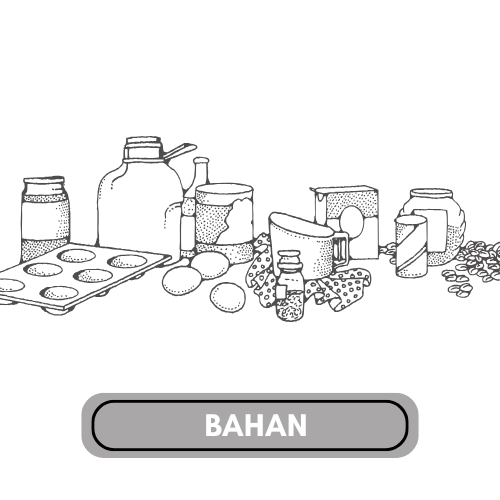
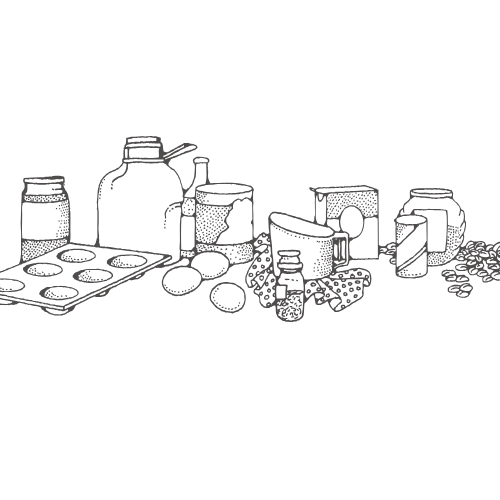
add

Changed region(s): [[0.15, 0.78, 0.84, 0.93]]

diff --git a/public/js/myjs.js b/public/js/myjs.js
@@ -67,7 +67,6 @@ inputIds.forEach(function (id) {
     }
 });
 
-
 //////////////////////////////////////////
 
 document
@@ -105,15 +104,13 @@ $(document).on("click", ".btn_editbarang", function (e) {
     $("#txtstok_awal").val(stok_awal);
     $("#txtsatuan_id").val(satuan_id);
 
-    if (image && image !== 'NULL') {
-        $("#previewGambar")
-            .show();
+    if (image && image !== "NULL") {
+        $("#previewGambar").show();
         $("#previewImage")
             .attr("src", "/" + image) // pastikan path benar, misal "upload/barang/xxx.jpg"
             .show();
     } else {
-        $("#previewGambar")
-            .hide();
+        $("#previewGambar").hide();
         $("#previewImage").hide();
     }
 
@@ -125,8 +122,6 @@ $(document).on("click", ".btn_editbarang", function (e) {
 $(document).on("click", "#barangModal2", function (e) {
     $("#barangModal2").modal("show");
 });
-
-
 
 //////////////////////////////////////////////
 
@@ -208,15 +203,13 @@ $(document).on("click", ".btn_editbahan", function (e) {
     $("#txtminimum").val(formattedMinimum);
     $("#txtsatuan_id").val(satuan_id);
 
-    if (image && image !== 'NULL') {
-        $("#previewGambar")
-            .show();
+    if (image && image !== "NULL") {
+        $("#previewGambar").show();
         $("#previewImage")
             .attr("src", "/" + image) // pastikan path benar, misal "upload/bahan/xxx.jpg"
             .show();
     } else {
-        $("#previewGambar")
-            .hide();
+        $("#previewGambar").hide();
         $("#previewImage").hide();
     }
 
@@ -247,15 +240,13 @@ $(document).on("click", ".btn_editbahan2", function (e) {
     $("#txtminimum2").val(formattedMinimum2);
     $("#txtsatuan_id2").val(satuan_id2);
 
-    if (image2 && image2 !== 'NULL') {
-        $("#previewGambar2")
-            .show();
+    if (image2 && image2 !== "NULL") {
+        $("#previewGambar2").show();
         $("#previewImage2")
             .attr("src", "/" + image2) // pastikan path benar, misal "upload/bahan/xxx.jpg"
             .show();
     } else {
-        $("#previewGambar2")
-            .hide();
+        $("#previewGambar2").hide();
         $("#previewImage2").hide();
     }
 
@@ -372,15 +363,13 @@ $(document).ready(function () {
         $("#editMenuName").val(name);
         $("#editMenuDescription").val(description);
 
-        if (image && image !== 'NULL') {
-            $("#previewGambar")
-                .show();
+        if (image && image !== "NULL") {
+            $("#previewGambar").show();
             $("#previewImage")
                 .attr("src", "/" + image) // pastikan path benar, misal "upload/bahan/xxx.jpg"
                 .show();
         } else {
-            $("#previewGambar")
-                .hide();
+            $("#previewGambar").hide();
             $("#previewImage").hide();
         }
 
@@ -433,9 +422,6 @@ $(document).ready(function () {
 
         refreshSatuan($("#editBahanContainer"));
     });
-
-    
-    
 });
 
 ////////////////////////////////////////////////////////

diff --git a/public/js/myselect2.js b/public/js/myselect2.js
@@ -37,6 +37,11 @@ $("#editEditModal").on("shown.bs.modal", function () {
     initSelect2("#txtsatuan_id", "#editBahanModal .modal-content");
 });
 
+// Modal Edit Bahan (Kitchen)
+$("#editBarangModal2").on("shown.bs.modal", function () {
+    initSelect2("#txtsatuan_id2", "#editBarangModal2 .modal-content");
+});
+
 // Modal Tambah Barang (Bar)
 $("#barangModal1").on("shown.bs.modal", function () {
     initSelect2("#satuan_id_bar", "#barangModal1 .modal-content");
@@ -46,3 +51,4 @@ $("#barangModal1").on("shown.bs.modal", function () {
 $("#barangModal2").on("shown.bs.modal", function () {
     initSelect2("#satuan_id_kitchen", "#barangModal2 .modal-content");
 });
+

diff --git a/resources/views/errors/500.blade.php b/resources/views/errors/500.blade.php
@@ -1,0 +1,55 @@
+<!DOCTYPE html>
+<html lang="en">
+<head>
+    <meta charset="UTF-8">
+    <meta name="viewport" content="width=device-width, initial-scale=1.0">
+    <title>Server Error</title>
+    <style>
+        body {
+            font-family: Arial, sans-serif;
+            background-color: #f8f8f8;
+            color: #333;
+            text-align: center;
+            padding: 50px;
+        }
+        .container {
+            max-width: 600px;
+            margin: 0 auto;
+            background-color: #fff;
+            padding: 30px;
+            border-radius: 8px;
+            box-shadow: 0 2px 4px rgba(0, 0, 0, 0.1);
+        }
+        h1 {
+            font-size: 72px;
+            margin-bottom: 10px;
+            color: #e74c3c; /* Red color for error */
+        }
+        p {
+            font-size: 18px;
+            margin-bottom: 20px;
+        }
+        a {
+            color: #3498db;
+            text-decoration: none;
+        }
+        a:hover {
+            text-decoration: underline;
+        }
+    </style>
+</head>
+<body>
+    <div class="container">
+        <h1>500</h1>
+        <p>Internal Server Error</p>
+        <p>
+            Oops! Something went wrong on our server. We're working to fix it.
+            Please try again in a few moments.
+        </p>
+        <p>
+            If the problem persists, please <a href="mailto:rendi45hp@gmail.com">contact support</a>.
+        </p>
+        <p>You can go back to the <a href="{{ url('/') }}">homepage</a>.</p>
+    </div>
+</body>
+</html>

diff --git a/resources/views/errors/404.blade.php b/resources/views/errors/404.blade.php
@@ -1,0 +1,48 @@
+<!DOCTYPE html>
+<html lang="en">
+<head>
+    <meta charset="UTF-8">
+    <meta name="viewport" content="width=device-width, initial-scale=1.0">
+    <title>Page Not Found</title>
+    <style>
+        body {
+            font-family: Arial, sans-serif;
+            background-color: #f8f8f8;
+            color: #333;
+            text-align: center;
+            padding: 50px;
+        }
+        .container {
+            max-width: 600px;
+            margin: 0 auto;
+            background-color: #fff;
+            padding: 30px;
+            border-radius: 8px;
+            box-shadow: 0 2px 4px rgba(0, 0, 0, 0.1);
+        }
+        h1 {
+            font-size: 72px;
+            margin-bottom: 10px;
+            color: #e12121;
+        }
+        p {
+            font-size: 18px;
+            margin-bottom: 20px;
+        }
+        a {
+            color: #3498db;
+            text-decoration: none;
+        }
+        a:hover {
+            text-decoration: underline;
+        }
+    </style>
+</head>
+<body>
+    <div class="container">
+        <h1>404</h1>
+        <p>Halaman Tidak ada atau Tidak dapat ditemukan</p>
+        <p>Kamu dapat kembali ke <a href="{{ url('/') }}">homepage</a> atau mencari url lainnya.</p>
+    </div>
+</body>
+</html>

diff --git a/resources/views/bahan/index.blade.php b/resources/views/bahan/index.blade.php
@@ -480,7 +480,7 @@
     				<small id="infoJumlahType" class="badge text-white border p-2" style="background-color: #198754;"></small>
 			</div>
                         <div class="mb-3">
-                            <label for="jumlah_input" class="form-label text-dark fw-bold">Jumlah <small id="satuanBahanText" class="text-muted ms-1"></small>:</label>
+                            <label for="jumlah_input" class="form-label text-dark fw-bold">Jumlah<small id="satuanBahanText" class="text-muted ms-1"></small>:</label>
                             <input type="number" step="0.001" id="jumlah_input" name="jumlah" max="99999999999.999"
                                 class="form-control number0" required>
 			    
